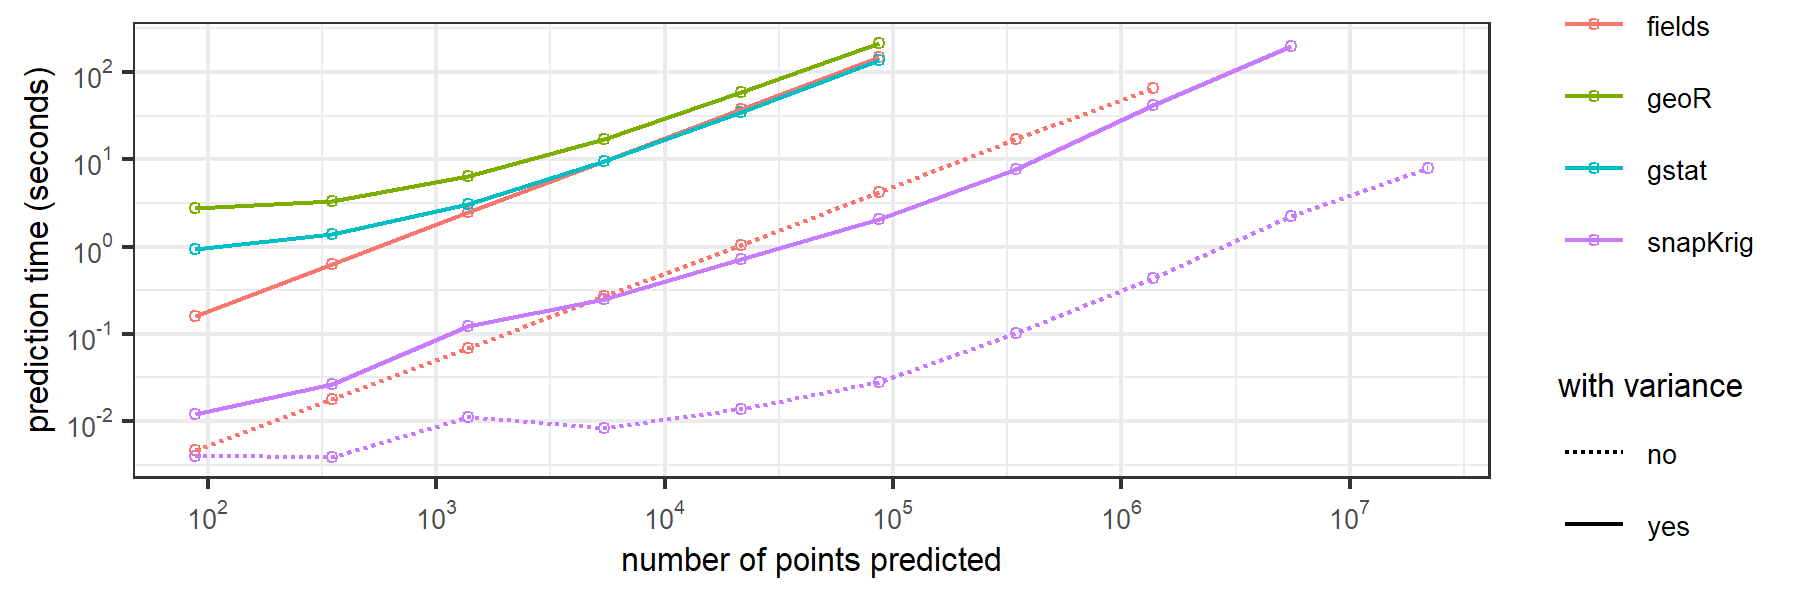
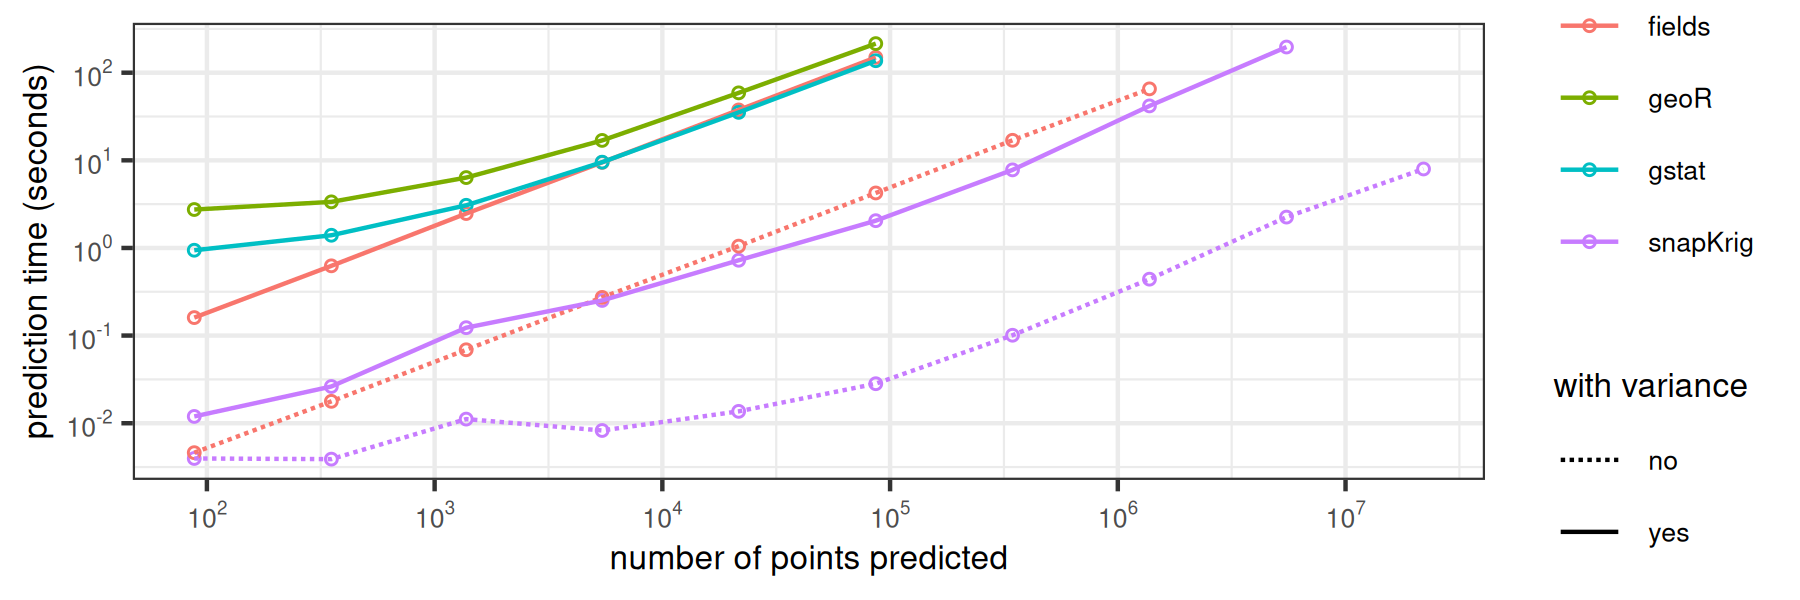
refresh rendered output

diff --git a/README.md b/README.md
@@ -1,8 +1,12 @@
 
 <!-- README.md is generated from README.Rmd. Please edit that file -->
+
 <!-- #' # -->
+
 <!-- #' TODO: -->
+
 <!-- #' sk_plot_semi needs an explanation for getting vg -->
+
 <!-- #' sk.plot refers to graphics::... when it should be grDevices -->
 
 # snapKrig
@@ -34,7 +38,7 @@ Here are some benchmarking results (*circa* 2023-2024) for computation
 time to downscale a 32 x 43 raster onto grids of increasing size by
 ordinary kriging.
 
-<img src="man/figures/README-preview-1.png" width="100%" />
+<img src="man/figures/README-preview-1.png" alt="" width="100%" />
 
 code and instructions to reproduce these results can be found
 [here](https://github.com/deankoch/snapKrig/tree/master/rjarticle/data)
@@ -104,7 +108,7 @@ g_sim = sk_sim(g_empty, pars)
 plot(g_sim, main='snapKrig simulation')
 ```
 
-<img src="man/figures/README-intro_sim-1.png" width="75%" style="display: block; margin: auto;" />
+<img src="man/figures/README-intro_sim-1.png" alt="" width="75%" style="display: block; margin: auto;" />
 
 ``` r
 g_sim
@@ -123,7 +127,7 @@ g_pred = sk_cmean(g_down, pars, X=0)
 # print time elapsed in computation
 t_end = Sys.time()
 t_end - t_start
-#> Time difference of 0.5637186 secs
+#> Time difference of 0.7079518 secs
 ```
 
 ``` r
@@ -131,7 +135,7 @@ t_end - t_start
 plot(g_pred, main='snapKrig prediction at 10X resolution')
 ```
 
-<img src="man/figures/README-intro_down_plot-1.png" width="75%" style="display: block; margin: auto;" />
+<img src="man/figures/README-intro_down_plot-1.png" alt="" width="75%" style="display: block; margin: auto;" />
 
 ``` r
 